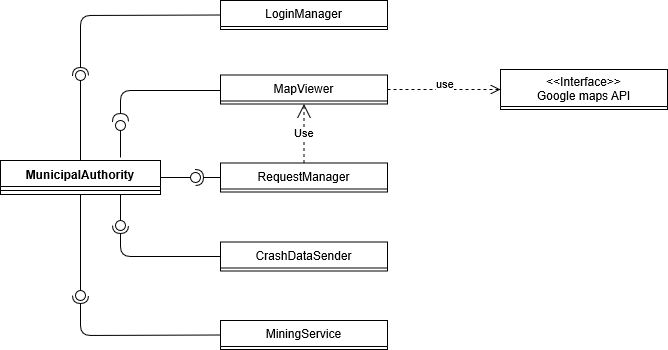
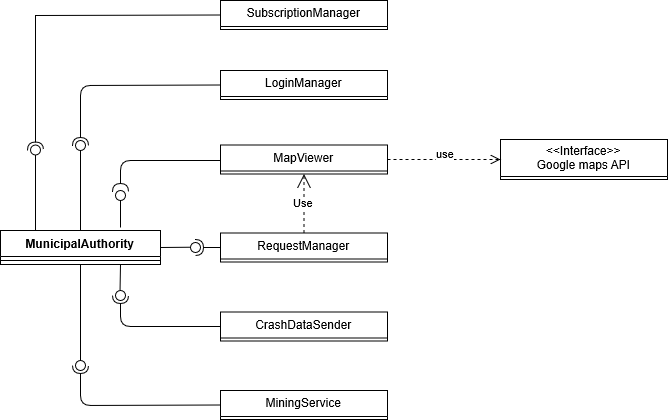
DD - update
Added a more in depth description of MunicipalAuthority and Policeman subscription process (2.2.4, 5.1, 5.2.6)

diff --git a/DD/Files/architectural.tex b/DD/Files/architectural.tex
@@ -115,6 +115,7 @@ The components represented in this diagram are:
 	\item MapViewer: Allows the visualization of the mined data in a map format. This component exploit Google Maps API to provide a representation of the local map.
 	\item CrashDataSender: Allows the municipal authority to send Data about car crashes around the municipality to the server in order to be crossed with data already collected.
 	\item MiningService: Provides an interface to simplify the acess of collected data to the municipality.
+	\item SubscriptionManager: This component is responsible of the subscription of Policemen and MunicipalAuthorities profiles. Once a subscription request is sent a SysAdmin will take care of it and proceed with the actual subscription of the profile. 
 \end{itemize}
 \subsubsection{SysAdmin}
 The system administrator will have access to all of the application tiers and components, as well as direct access to data.

diff --git a/DD/Files/implementation.tex b/DD/Files/implementation.tex
@@ -39,6 +39,7 @@ Thus, SafeStreets implementation will follow this order:
 			Please note that LoginManager, PlateRecogniser and MapViewer have already been implemented
 			\item MunicipalAuthoritiesClient:
 				\begin{itemize}
+					\item SubscriptionManager
 					\item RequestManager
 					\item CrashDataSender
 					\item MiningService
@@ -112,6 +113,7 @@ For policemen client, the specific integrations are:
 \subsubsection{Integration: Application Server - MunicipalAuthority Client}
 For municipal authorities, the specific integrations are:
 \begin{itemize}
+	\item SubscriptionManager - Router
 	\item LoginManager - Router
 	\item RequestManager - Router
 	\item RequestManager - Router
